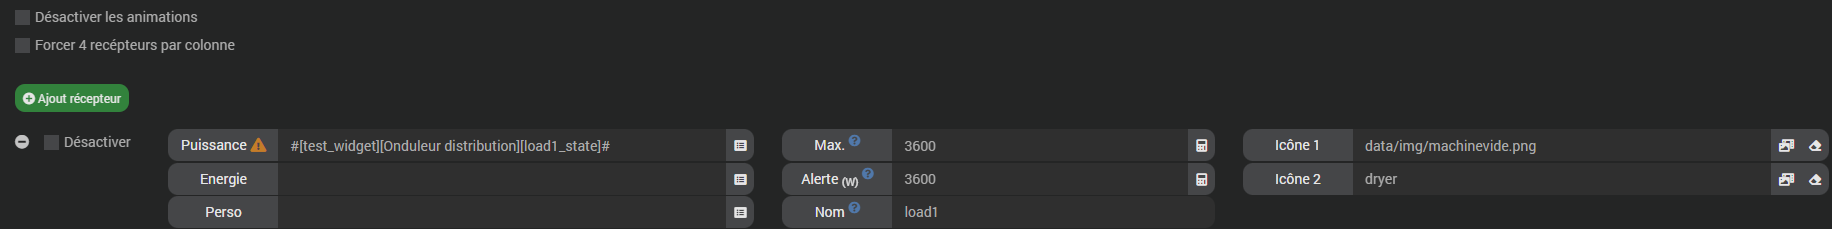
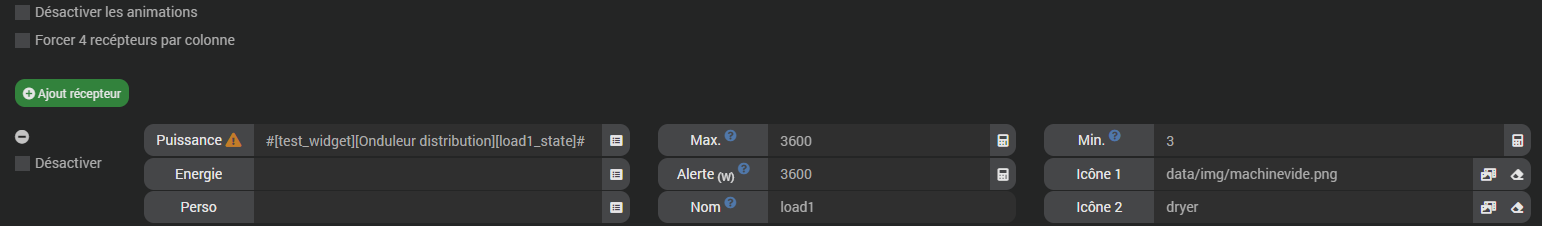
add min power

diff --git a/plugins/fr_FR/powerFlow/beta/index.md b/plugins/fr_FR/powerFlow/beta/index.md
@@ -8,7 +8,7 @@ Ce plugin permet d'afficher un widget de distribution (réseau, solaire, batteri
 
 >**Important**
 >
->Hormis pour les champs ```Max``` et ```Alerte```, qui autorisent l'utilisation d'une variable ou d'une valeur numérique, tous les autres champs n'accèptent qu'une commande (`#[objet][Equipement][commande]#`)<br>
+>Hormis pour les champs ```Min```, ```Max``` et ```Alerte```, qui autorisent l'utilisation d'une variable ou d'une valeur numérique, tous les autres champs n'accèptent qu'une commande (`#[objet][Equipement][commande]#`)<br>
 > Si vous avez besoin d'effectuer un calcul <i>(p.ex. : récepteur 1 + récepteur 2)</i>, il faudra avant tout le faire dans un virtuel, puis insérer la commande résultante dans le plugin.
 
 > **Conseil** : N'hésitez pas à lire les info-bulles (<i class="fas fa-question-circle" style="color: #5078aa !important;"></i> <i class="fas fa-exclamation-triangle" style="color: #c37d28 !important;"></i>) présentent dans le plugin.
@@ -247,7 +247,8 @@ Vous pouvez ajouter jusqu'a 2 icônes ou images par récepteur.<br>
 
 >**Tips**
 >
-> Vous pouvez aussi ajouter des recepteurs "fantômes". Voir section "solaire" pour plus d'informations.
+> - Vous pouvez aussi ajouter des recepteurs "fantômes". Voir section "solaire" pour plus d'informations.
+> - Le champs Min permet de ne pas activer l’animation si la puissance est <= a ce seuil.
 
 ## Générateur
 <img src="../../../images/powerFlow_exemple_generateur_1.png"/>